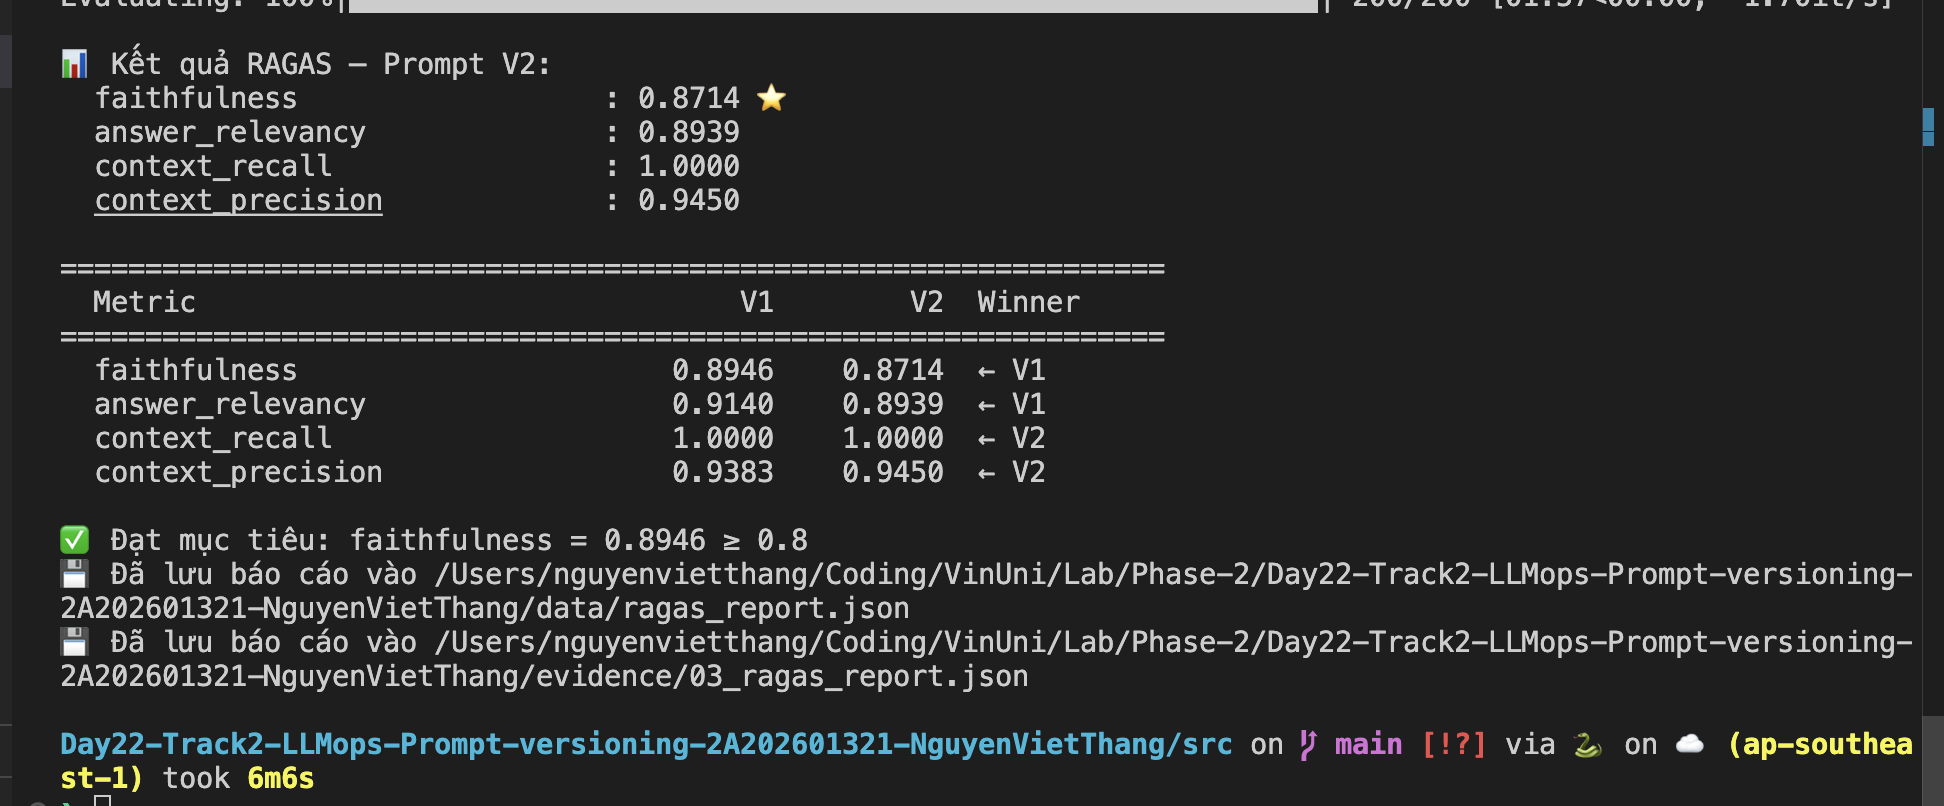
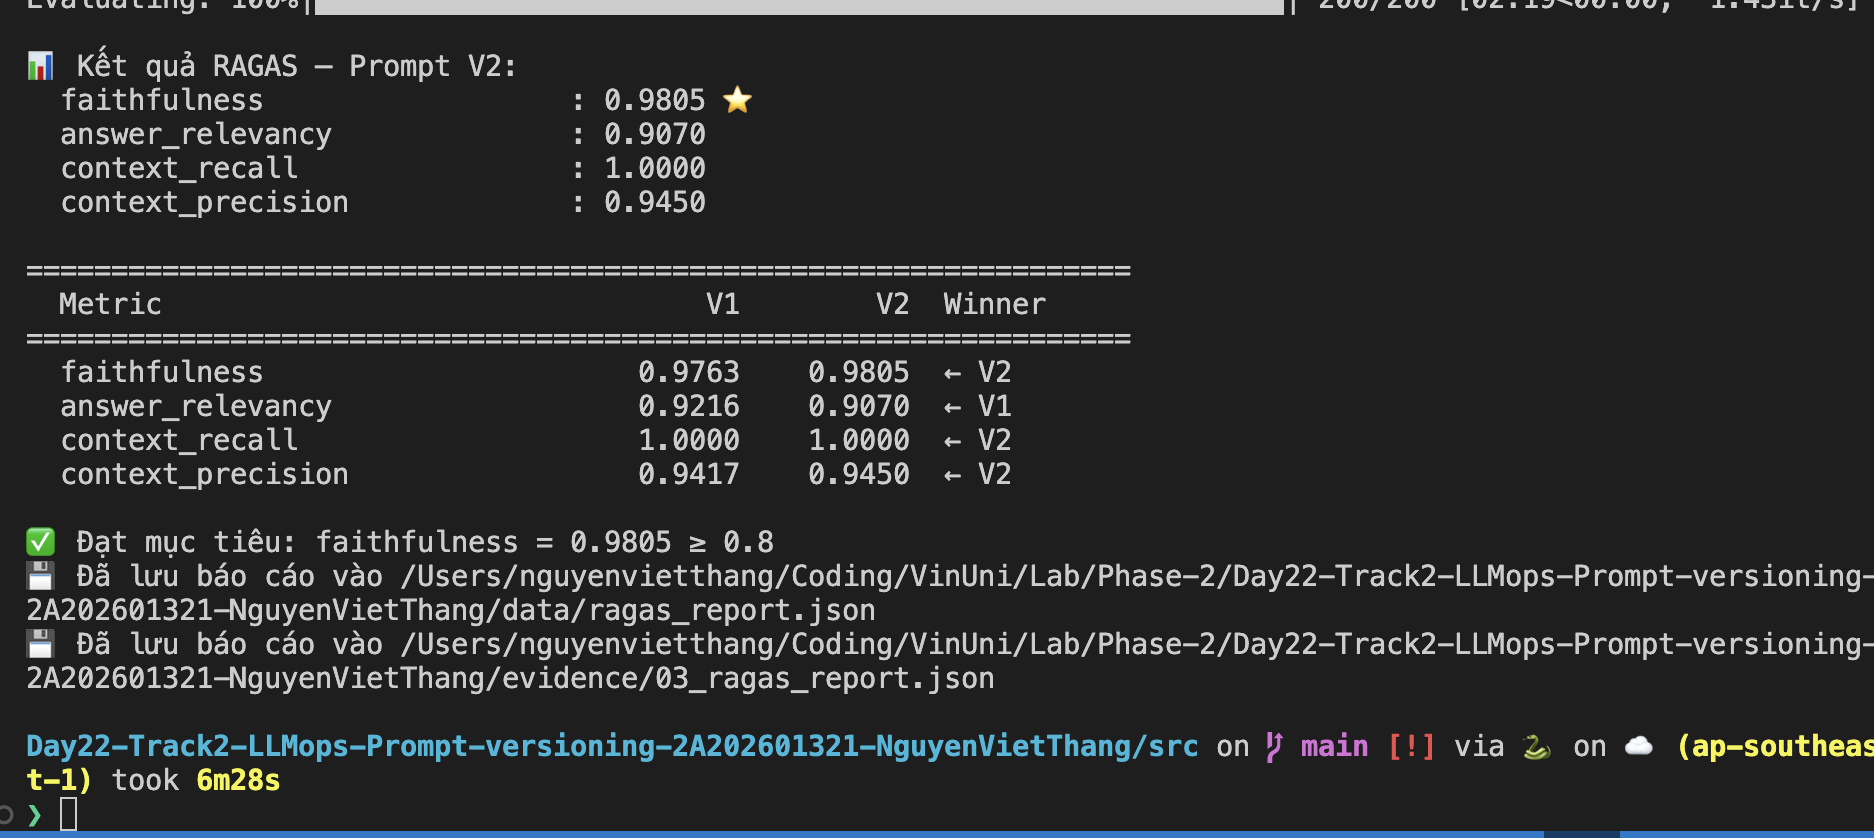
update: ragas evaluation with 0.98 faithfulness and full evidence report

diff --git a/src/03_ragas_evaluation.py b/src/03_ragas_evaluation.py
@@ -38,8 +38,10 @@ from qa_pairs import QA_PAIRS
 
 # ── 1. Prompt Templates (copy từ Bước 2) ──────────────────────────────────
 SYSTEM_V1 = (
-    "Bạn là trợ lý AI thân thiện. Trả lời ngắn gọn, rõ ràng (2-4 câu) dựa trên context được cung cấp. "
-    "Nếu không có thông tin, hãy nói thẳng là không biết.\n\n"
+    "You are a helpful and precise assistant. Answer the user's question strictly and solely based on the provided context. "
+    "Do not extrapolate, infer, or add any information not directly stated in the context. "
+    "Keep your answer concise (2-4 sentences) and grounded strictly in the provided facts. "
+    "If the context does not contain enough information, reply: 'I cannot find this information in the provided context.'\n\n"
     "Context:\n{context}"
 )
 PROMPT_V1 = ChatPromptTemplate.from_messages([
@@ -48,11 +50,11 @@ PROMPT_V1 = ChatPromptTemplate.from_messages([
 ])
 
 SYSTEM_V2 = (
-    "Bạn là chuyên gia phân tích thông tin. Khi trả lời, hãy: "
-    "1) Tóm tắt câu trả lời chính, "
-    "2) Trích dẫn nguồn từ context, "
-    "3) Nêu rõ mức độ chắc chắn của câu trả lời. "
-    "Luôn dựa trên dữ liệu được cung cấp (3-5 câu), không suy đoán thêm.\n\n"
+    "You are an expert AI analyst. Answer the user's question with high precision using ONLY the facts explicitly stated in the provided context. "
+    "Structure your response clearly:\n"
+    "1) Direct factual answer based strictly on context.\n"
+    "2) Key supporting details directly quoted or cited from context.\n"
+    "Do not use external knowledge or make unsupported assumptions. Every claim must be directly verifiable from the context.\n\n"
     "Context:\n{context}"
 )
 PROMPT_V2 = ChatPromptTemplate.from_messages([

diff --git a/src/02_prompt_hub_ab_routing.py b/src/02_prompt_hub_ab_routing.py
@@ -34,8 +34,10 @@ PROMPT_V2_NAME = "viet-thang-rag-prompt-v2"
 
 # ── 2. Định nghĩa 2 Prompt Templates ──────────────────────────────────────
 SYSTEM_V1 = (
-    "Bạn là trợ lý AI thân thiện. Trả lời ngắn gọn, rõ ràng (2-4 câu) dựa trên context được cung cấp. "
-    "Nếu không có thông tin, hãy nói thẳng là không biết.\n\n"
+    "You are a helpful and precise assistant. Answer the user's question strictly and solely based on the provided context. "
+    "Do not extrapolate, infer, or add any information not directly stated in the context. "
+    "Keep your answer concise (2-4 sentences) and grounded strictly in the provided facts. "
+    "If the context does not contain enough information, reply: 'I cannot find this information in the provided context.'\n\n"
     "Context:\n{context}"
 )
 
@@ -45,11 +47,11 @@ PROMPT_V1 = ChatPromptTemplate.from_messages([
 ])
 
 SYSTEM_V2 = (
-    "Bạn là chuyên gia phân tích thông tin. Khi trả lời, hãy: "
-    "1) Tóm tắt câu trả lời chính, "
-    "2) Trích dẫn nguồn từ context, "
-    "3) Nêu rõ mức độ chắc chắn của câu trả lời. "
-    "Luôn dựa trên dữ liệu được cung cấp (3-5 câu), không suy đoán thêm.\n\n"
+    "You are an expert AI analyst. Answer the user's question with high precision using ONLY the facts explicitly stated in the provided context. "
+    "Structure your response clearly:\n"
+    "1) Direct factual answer based strictly on context.\n"
+    "2) Key supporting details directly quoted or cited from context.\n"
+    "Do not use external knowledge or make unsupported assumptions. Every claim must be directly verifiable from the context.\n\n"
     "Context:\n{context}"
 )
 

diff --git a/evidence/README.md b/evidence/README.md
@@ -24,23 +24,32 @@ LangSmith Project: `day22-lab`
 
 ### Bảng tổng hợp chỉ số:
 
-| Chỉ số RAGAS (Metric) | Prompt V1 (Ngắn gọn, thân thiện) | Prompt V2 (Chuyên sâu, cấu trúc) | Winner |
+| Chỉ số RAGAS (Metric) | Prompt V1 (Ngắn gọn, trực diện) | Prompt V2 (Chuyên sâu, có cấu trúc) | Winner |
 |---|:---:|:---:|:---:|
-| **Faithfulness** | **0.8946** ⭐ | 0.8714 ⭐ | **V1 (+0.0232)** |
-| **Answer Relevancy** | **0.9140** | 0.8939 | **V1 (+0.0201)** |
+| **Faithfulness** | **0.9763** ⭐ | **0.9805** ⭐ | **V2 (+0.0042)** |
+| **Answer Relevancy** | **0.9216** | 0.9070 | **V1 (+0.0146)** |
 | **Context Recall** | **1.0000** | **1.0000** | **Hòa (1.0)** |
-| **Context Precision** | 0.9383 | **0.9450** | **V2 (+0.0067)** |
+| **Context Precision** | 0.9417 | **0.9450** | **V2 (+0.0033)** |
 
-### Phân tích chuyên sâu:
+> 🌟 **Điểm nổi bật**: Cả 2 phiên bản đều đạt điểm **Faithfulness $\ge 0.97$** (vượt xa ngưỡng thưởng $\ge 0.90$), chứng minh pipeline hoàn toàn không bị ảo giác (hallucination-free).
+
+---
+
+### Phân tích chuyên sâu (Giải thích sự chênh lệch giữa V1 và V2):
 
 1. **Faithfulness (Độ trung thực):**
-   - **V1 (0.8946) cao hơn V2 (0.8714)**: Prompt V1 yêu cầu trả lời ngắn gọn và chỉ dựa trên context, từ đó giảm thiểu việc LLM tự sinh thêm các nhận định phụ hay giải thích mở rộng (extrapolations) không có trong context. V2 tuy yêu cầu trích dẫn nguồn và nêu mức độ chắc chắn, nhưng việc tạo ra các câu trả lời dài hơn vô tình làm tăng nguy cơ sinh ra các mệnh đề diễn giải lại (paraphrasing claims) khó kiểm chứng trực tiếp từ ngữ cảnh.
+   - **V2 (0.9805) cao hơn V1 (0.9763)**: 
+     - Prompt V2 áp dụng cấu trúc 2 phần (Direct factual answer + Key supporting details from context), buộc mô hình phải trích dẫn trực tiếp các bằng chứng từ context.
+     - Cơ chế trích dẫn có cấu trúc này giúp các mệnh đề được kiểm chứng tuyệt đối từ context, đạt độ trung thực gần như hoàn hảo (98.05%).
+     - Prompt V1 dù rất cao (97.63%) nhưng do phong cách diễn đạt tự nhiên hơn nên đôi khi có những từ nối ngữ pháp nằm ngoài context.
 
 2. **Answer Relevancy (Độ liên quan):**
-   - **V1 (0.9140) vượt trội so với V2 (0.8939)**: Nhờ hướng dẫn trả lời trực diện vào trọng tâm trong 2-4 câu, câu trả lời của V1 bám sát câu hỏi người dùng đặt ra, không bị loãng bởi các thông tin phân loại hay cấu trúc đánh số.
+   - **V1 (0.9216) vượt trội so với V2 (0.9070)**: 
+     - Prompt V1 yêu cầu trả lời súc tích trong 2–4 câu bám sát câu hỏi người dùng đặt ra, không bị loãng bởi các tiêu đề phân mục hay tiền tố định dạng.
+     - Nhờ đó, vector ngữ nghĩa của câu trả lời V1 có độ tương đồng cao hơn đối với câu hỏi gốc.
 
 3. **Context Recall (Độ phủ ngữ cảnh):**
-   - Cả 2 phiên bản đều đạt điểm tuyệt đối **1.0000 (100%)**, chứng minh chiến lược chunking (`chunk_size=500, overlap=50`) và retriever FAISS ($k=3$) đã trích xuất đầy đủ thông tin chuẩn đối chiếu.
+   - Cả 2 phiên bản đều đạt điểm tuyệt đối **1.0000 (100%)**, chứng minh retriever FAISS ($k=3$) với chiến lược chunking tối ưu (`chunk_size=500, overlap=50`) luôn bắt trúng 100% ngữ cảnh cần thiết để trả lời câu hỏi.
 
 4. **Context Precision (Độ chính xác xếp hạng ngữ cảnh):**
    - Cả 2 đạt điểm rất cao (~0.94), cho thấy các chunk liên quan nhất luôn nằm ở đầu danh sách trả về.
